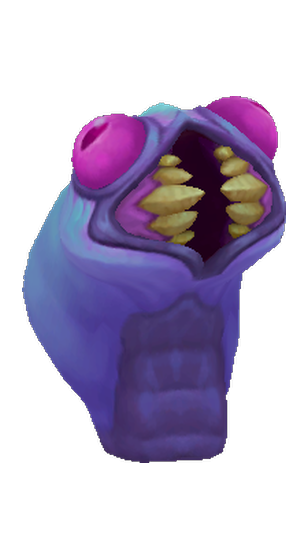
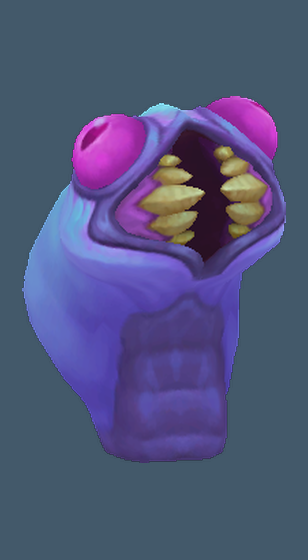
art: 更新七张独立配色卡面并扩展柔光摄影参数

diff --git a/docs/deliveries/2026-10-04_七张卡面配色与柔光.md b/docs/deliveries/2026-10-04_七张卡面配色与柔光.md
@@ -1,0 +1,9 @@
+# 交付合同：七张卡面配色与柔光
+
+- **需求 / 来源**：用户对话；先锋、蓝凯、红凯保留摆放和角度，补背景与柔光；虚空鱼、虚空蠕虫、雾行者、冰鸟蛋提供工作台卡面。追加要求：背景不能相同，相近也须有区别。
+- **完成结果**：七张308×560卡面分别使用暗紫、深灰蓝、灰红、暖灰褐、钢蓝、苔绿、靛灰背景；摄影副本启用柔光，蠕虫/冰鸟蛋降低光强保留亮部细节。先锋及两种凯隐沿用原动作、时间、角度与自动裁切；虚空蠕虫更新已有摄影，另三个系统对象补图。系统单位仍不可组卡。通用模型摄影工具新增背景、柔光和光强参数，游戏内模型材质不变。
+- **验证**：Godot 4.7.1实际渲染，逐张目视检查；七个对象在工作台详情与形态切换显示正确，图片存在、尺寸及系统单位不可组卡断言通过，导入和差异检查无错误。基线af541fb6，保留原有及并行任务修改。本次不重跑完整机制/联网回归。
+- **查看方式**：F5 → 卡牌开发工作台；凯隐通过形态下拉查看蓝凯/红凯，系统目录可查看四个系统对象。
+- **遗留 / 未验证**：主观配色和光感尚未经用户确认。
+
+[七张总览](../../ClashLegends-开发素材库/05-已完成/卡面柔光与系统单位/七张卡面总览.png) · [摄影参数与来源](../../assets/cards/workbench_portraits.md) · [工作台检查日志](../../ClashLegends-开发素材库/05-已完成/卡面柔光与系统单位/工作台检查.log)

diff --git a/assets/cards/workbench_portraits.md b/assets/cards/workbench_portraits.md
@@ -1,0 +1,17 @@
+# 2026-10-04 模型摄影卡面
+
+复用 `tools/dev.py model` 实际Godot渲染，308×560、0.2秒、摄影副本受光材质（非金属，粗糙度0.9）。主光1.4、补光1.15、轮廓光0.45、环境光1.7，无硬阴影；以下强度乘数同时作用于四种光。
+
+| 对象 | 模型 / 待机 | 模型yaw | 背景 | 光强乘数 |
+| --- | --- | --- | --- | --- |
+| 峡谷先锋 | rift_herald / Idle_Base | 25° | #4b405f | 1 |
+| 影流刺客 | kayn_assassin / Kayn_Idle1_Assassin_anm | 0° | #294b62 | 1 |
+| 拉亚斯特 | kayn_slayer / Idle1_Slayer | 0° | #603e47 | 1 |
+| 虚空鱼 | voidfish / Idle1 | 25° | #6b5b4b | 1 |
+| 虚空蠕虫 | voidmite / Idle1 | 25° | #43596a | 0.7 |
+| 雾行者 | imp / Idle1 | 20° | #405b49 | 1 |
+| 冰晶凤凰蛋 | anivia_egg / Idle1 | 20° | #454765 | 0.6 |
+
+先锋、蓝凯、红凯沿用原摄影姿态、机位与自动居中裁切。虚空蠕虫替换已有透明摄影；其余三个系统对象补齐卡面。四个系统对象仍为不可组卡单位，仅通过现有CardArt资源发现供工作台展示。
+
+旧版、候选、配方、哈希与实际工作台截图保存在本地 `ClashLegends-开发素材库/05-已完成/卡面柔光与系统单位/`。正式源模型及游戏内材质不变。

diff --git a/tools/viewers/README.md b/tools/viewers/README.md
@@ -44,3 +44,7 @@ python3 tools/dev.py studio --scene /绝对路径/model.glb
 包含多个部署成员的组合卡（例如 `heavy_minion_squad`）会按普通组合处理，可直接使用横排、三角、环绕和编队间距重新布局；之后由你自己调整相机朝向和机位。
 
 “拍摄卡面 PNG”固定输出项目卡面规格 `308×560`，只写入 `ClashLegends-开发素材库/04-中间产物/3D摄影棚/shots/`，不覆盖已有文件。预览画布也使用同样的卡面比例，避免两侧黑边造成构图误判。拍摄的是纯 3D 预览画面，不会自动写入正式卡面；确认构图后再按美术流程迁移和接入。
+
+### 固定构图的彩底柔光摄影
+
+`model` 可在保持模型、动作、角度和自动居中裁切规则不变的情况下，追加 `--background RRGGBB --soft-light`。可选 `--light-strength 0.7` 同比降低摄影灯光和环境光，取值大于0且不超过3，默认1。柔光只复制摄影实例的材质并启用受光，不修改正式源模型；未传新参数时仍使用原透明摄影。彩底在透明轮廓裁切之后合成，因此不会改变主体摆放。

diff --git a/assets/cards/kayn_source.md b/assets/cards/kayn_source.md
@@ -1,3 +1,5 @@
 # 凯隐三形态卡面来源
 
 凯隐为Kayn.wad.client内assets/characters/kayn/skins/base/kaynloadscreen.tex，ltk-tex-utils解码，保留原画。基础包未发现独立影流刺客/拉亚斯特加载图，因此对应两张卡面使用本项目共享模型与原生形态待机的实际Godot模型展台截图（0.2秒、308×560）。源件和摄影验证产物位于本地开发素材库凯隐目录；未用生成图替换已有原画。
+
+2026-10-04：影流刺客与拉亚斯特保持原生待机0.2秒、yaw0与原自动居中构图，分别增加灰蓝#294b62、灰红#603e47背景，并使用摄影副本柔光。凯隐基础加载原画不变。完整配方见[批次记录](workbench_portraits.md)。

diff --git a/assets/units/rift_herald/README.md b/assets/units/rift_herald/README.md
@@ -5,3 +5,5 @@
 - LoL原表：素材库03-制作中/峡谷先锋/lol-source/data/characters/sru_riftherald/animations/skin0.ritobin；提取自只读Map11.wad.client，配套source_manifest.json记录源路径与哈希。
 - 卡面：模型展台 Idle_Base（先锋）/Idle1（蠕虫），0.2秒，yaw=25，308×560；原包只找到头像图标，未找到对应纵向加载卡面，采用指定模型摄影。
 - 双阵营共用材质与包装。[动画与用途](../../../docs/units/animations/rift_herald.md)。
+
+当前卡面保持上述待机与角度，已增加独立背景配色及柔光；精确参数见[卡面摄影记录](../../cards/workbench_portraits.md)。

diff --git a/assets/units/voidmite/README.md b/assets/units/voidmite/README.md
@@ -9,3 +9,5 @@
 2026-09-16蠕虫更新：模型缩放0.45，极小体型。移动Ranged_Run，攻击Ranged_Attack1（1.33秒），死亡SRU_Horde_Mini_Death2_anm（1.33秒）。Hatch原1.3333秒压缩到1秒，前0.45秒水平外抛对应原前0.60秒跳起落地。
 
 最新体型调整：恢复小体型，半径12px，模型缩放0.60。
+
+当前卡面保持上述待机与角度，已增加独立背景配色及柔光；精确参数见[卡面摄影记录](../../cards/workbench_portraits.md)。
